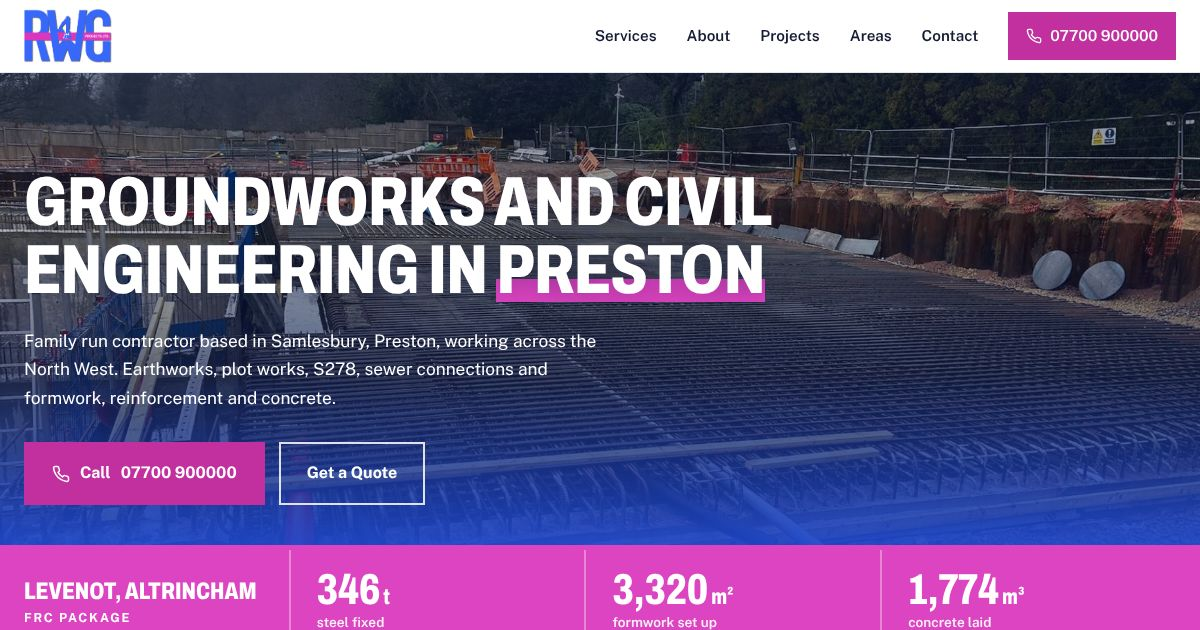
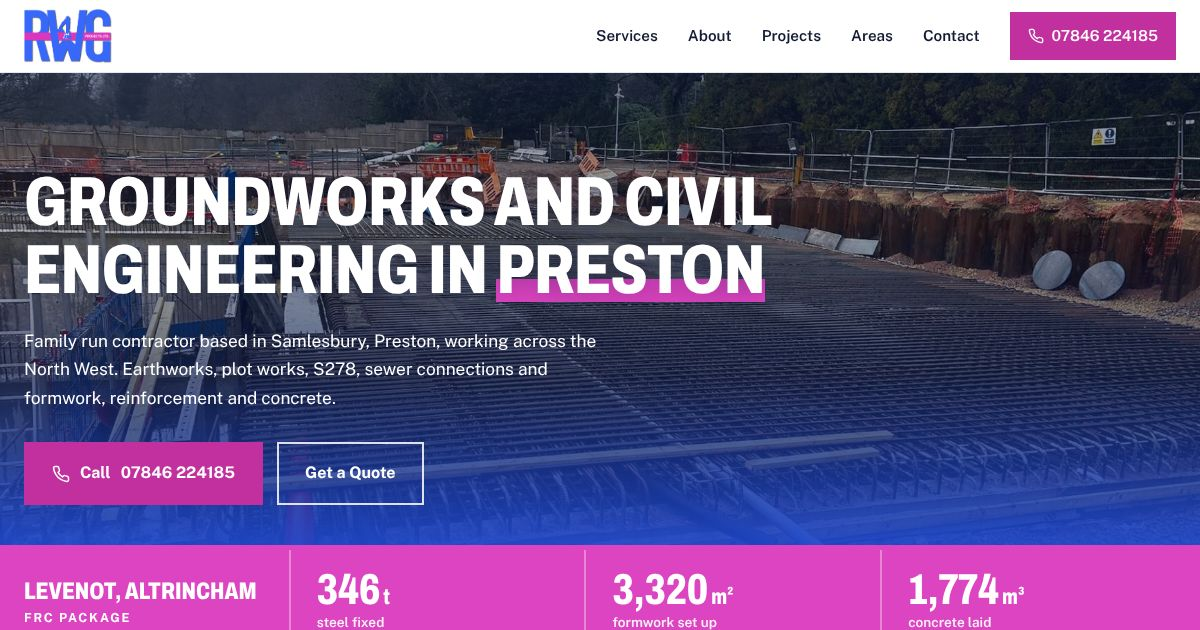
RWG Projects Ltd A and B: their contact number

diff --git a/rwg-projects-b/index.html b/rwg-projects-b/index.html
@@ -660,9 +660,9 @@ html.no-scroll .fabs{opacity:0;pointer-events:none}
 
 <script>
 (function(){
-  var P = atob('MDc3MDA5MDAwMDA=');
-  var Pf = atob('MDc3MDAgOTAwMDAw');
-  var W = atob('NDQ3NzAwOTAwMDAw');
+  var P = atob('MDc4NDYyMjQxODU=');
+  var Pf = atob('MDc4NDYgMjI0MTg1');
+  var W = atob('NDQ3ODQ2MjI0MTg1');
   var E = atob('aW5mb0Byd2dwcm9qZWN0cy5jby51aw==');
   document.querySelectorAll('.js-call').forEach(function(a){ a.href = 'tel:' + P; });
   document.querySelectorAll('.js-pf').forEach(function(s){ s.textContent = Pf; });

diff --git a/rwg-projects/index.html b/rwg-projects/index.html
@@ -598,9 +598,9 @@ html.no-scroll .fabs{opacity:0;pointer-events:none}
 
 <script>
 (function(){
-  var P = atob('MDc3MDA5MDAwMDA=');
-  var Pf = atob('MDc3MDAgOTAwMDAw');
-  var W = atob('NDQ3NzAwOTAwMDAw');
+  var P = atob('MDc4NDYyMjQxODU=');
+  var Pf = atob('MDc4NDYgMjI0MTg1');
+  var W = atob('NDQ3ODQ2MjI0MTg1');
   var E = atob('aW5mb0Byd2dwcm9qZWN0cy5jby51aw==');
   document.querySelectorAll('.js-call').forEach(function(a){ a.href = 'tel:' + P; });
   document.querySelectorAll('.js-pf').forEach(function(s){ s.textContent = Pf; });
